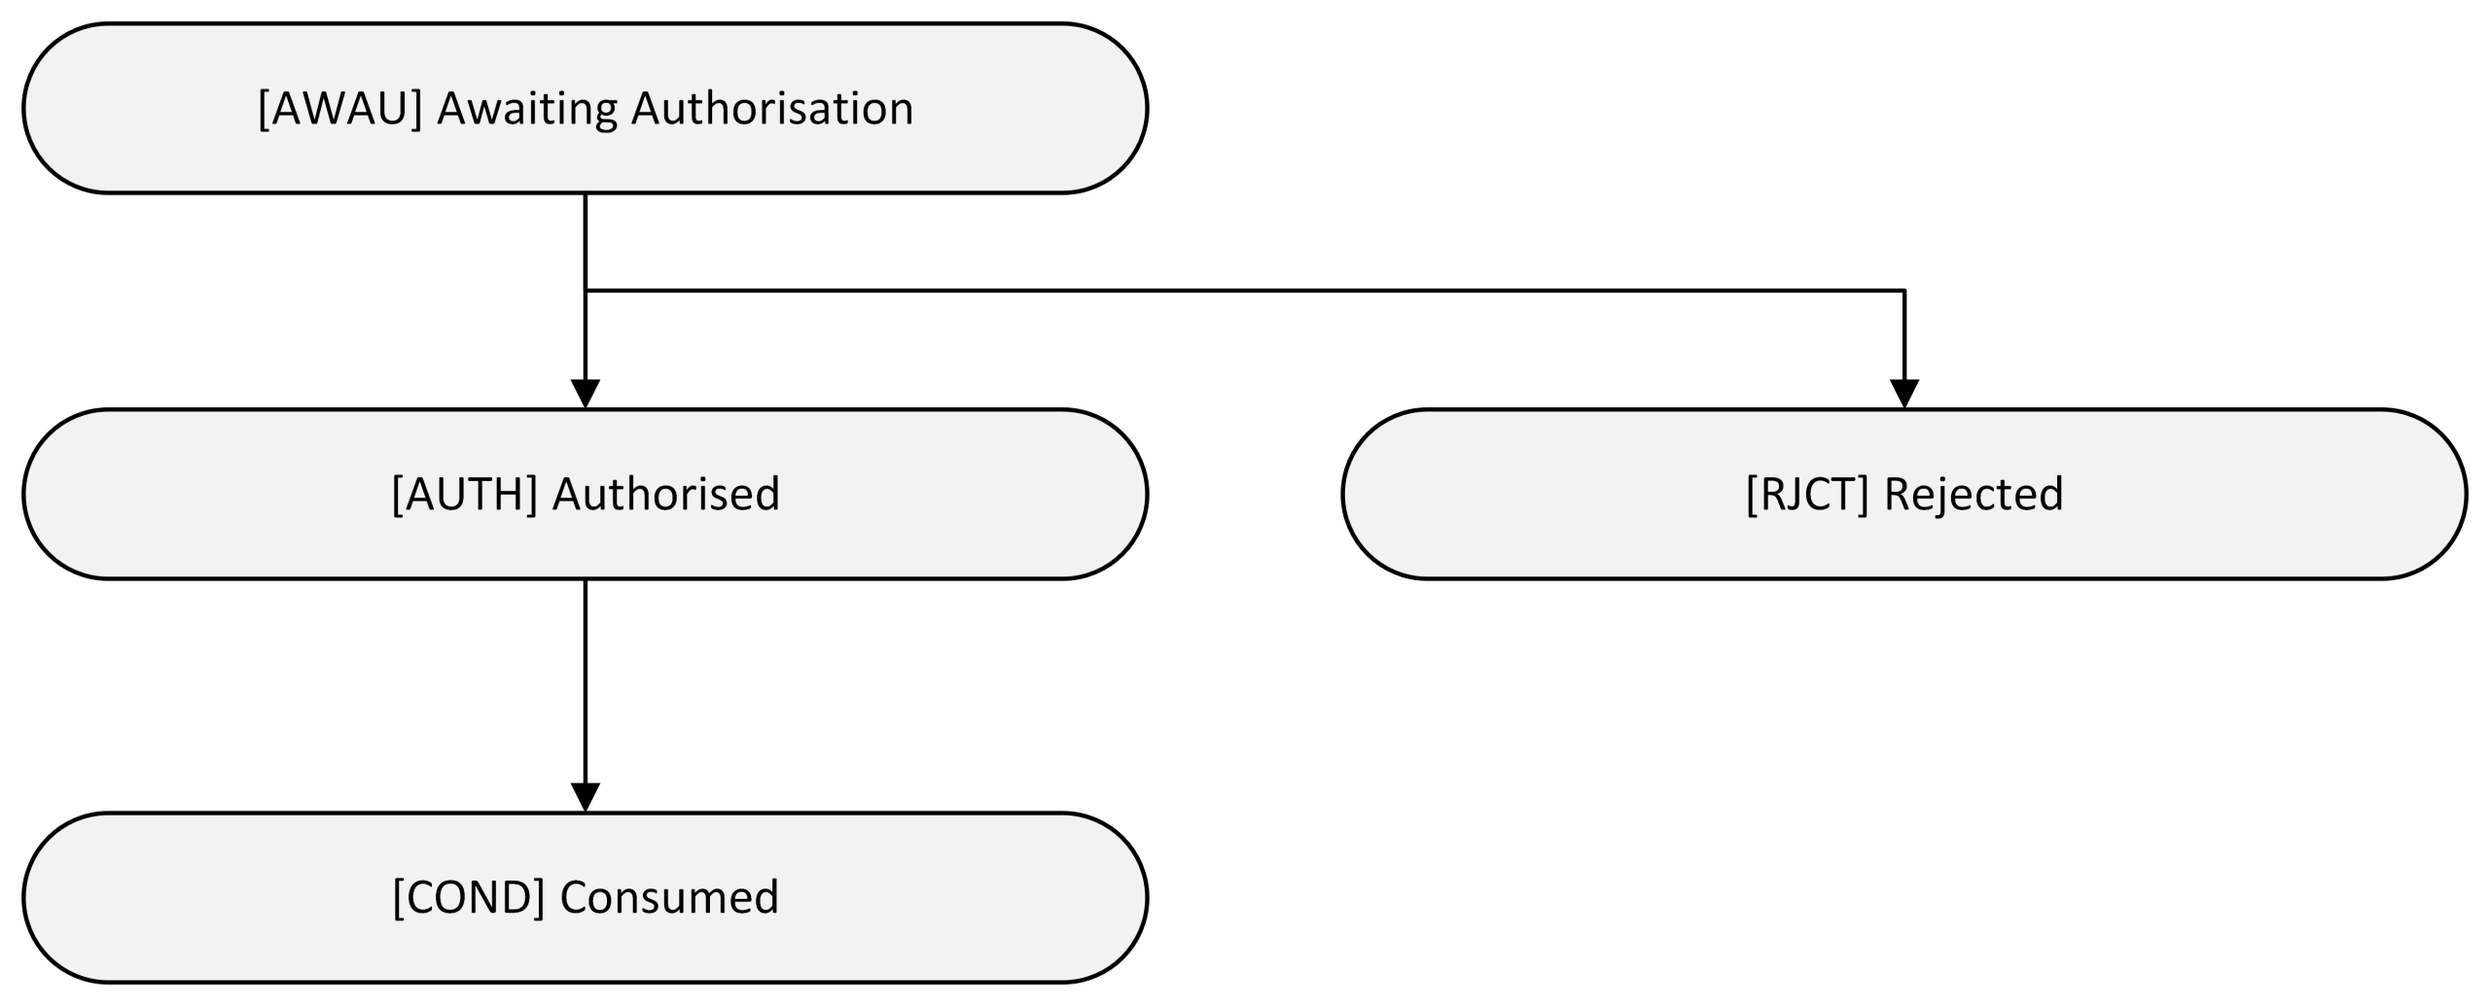
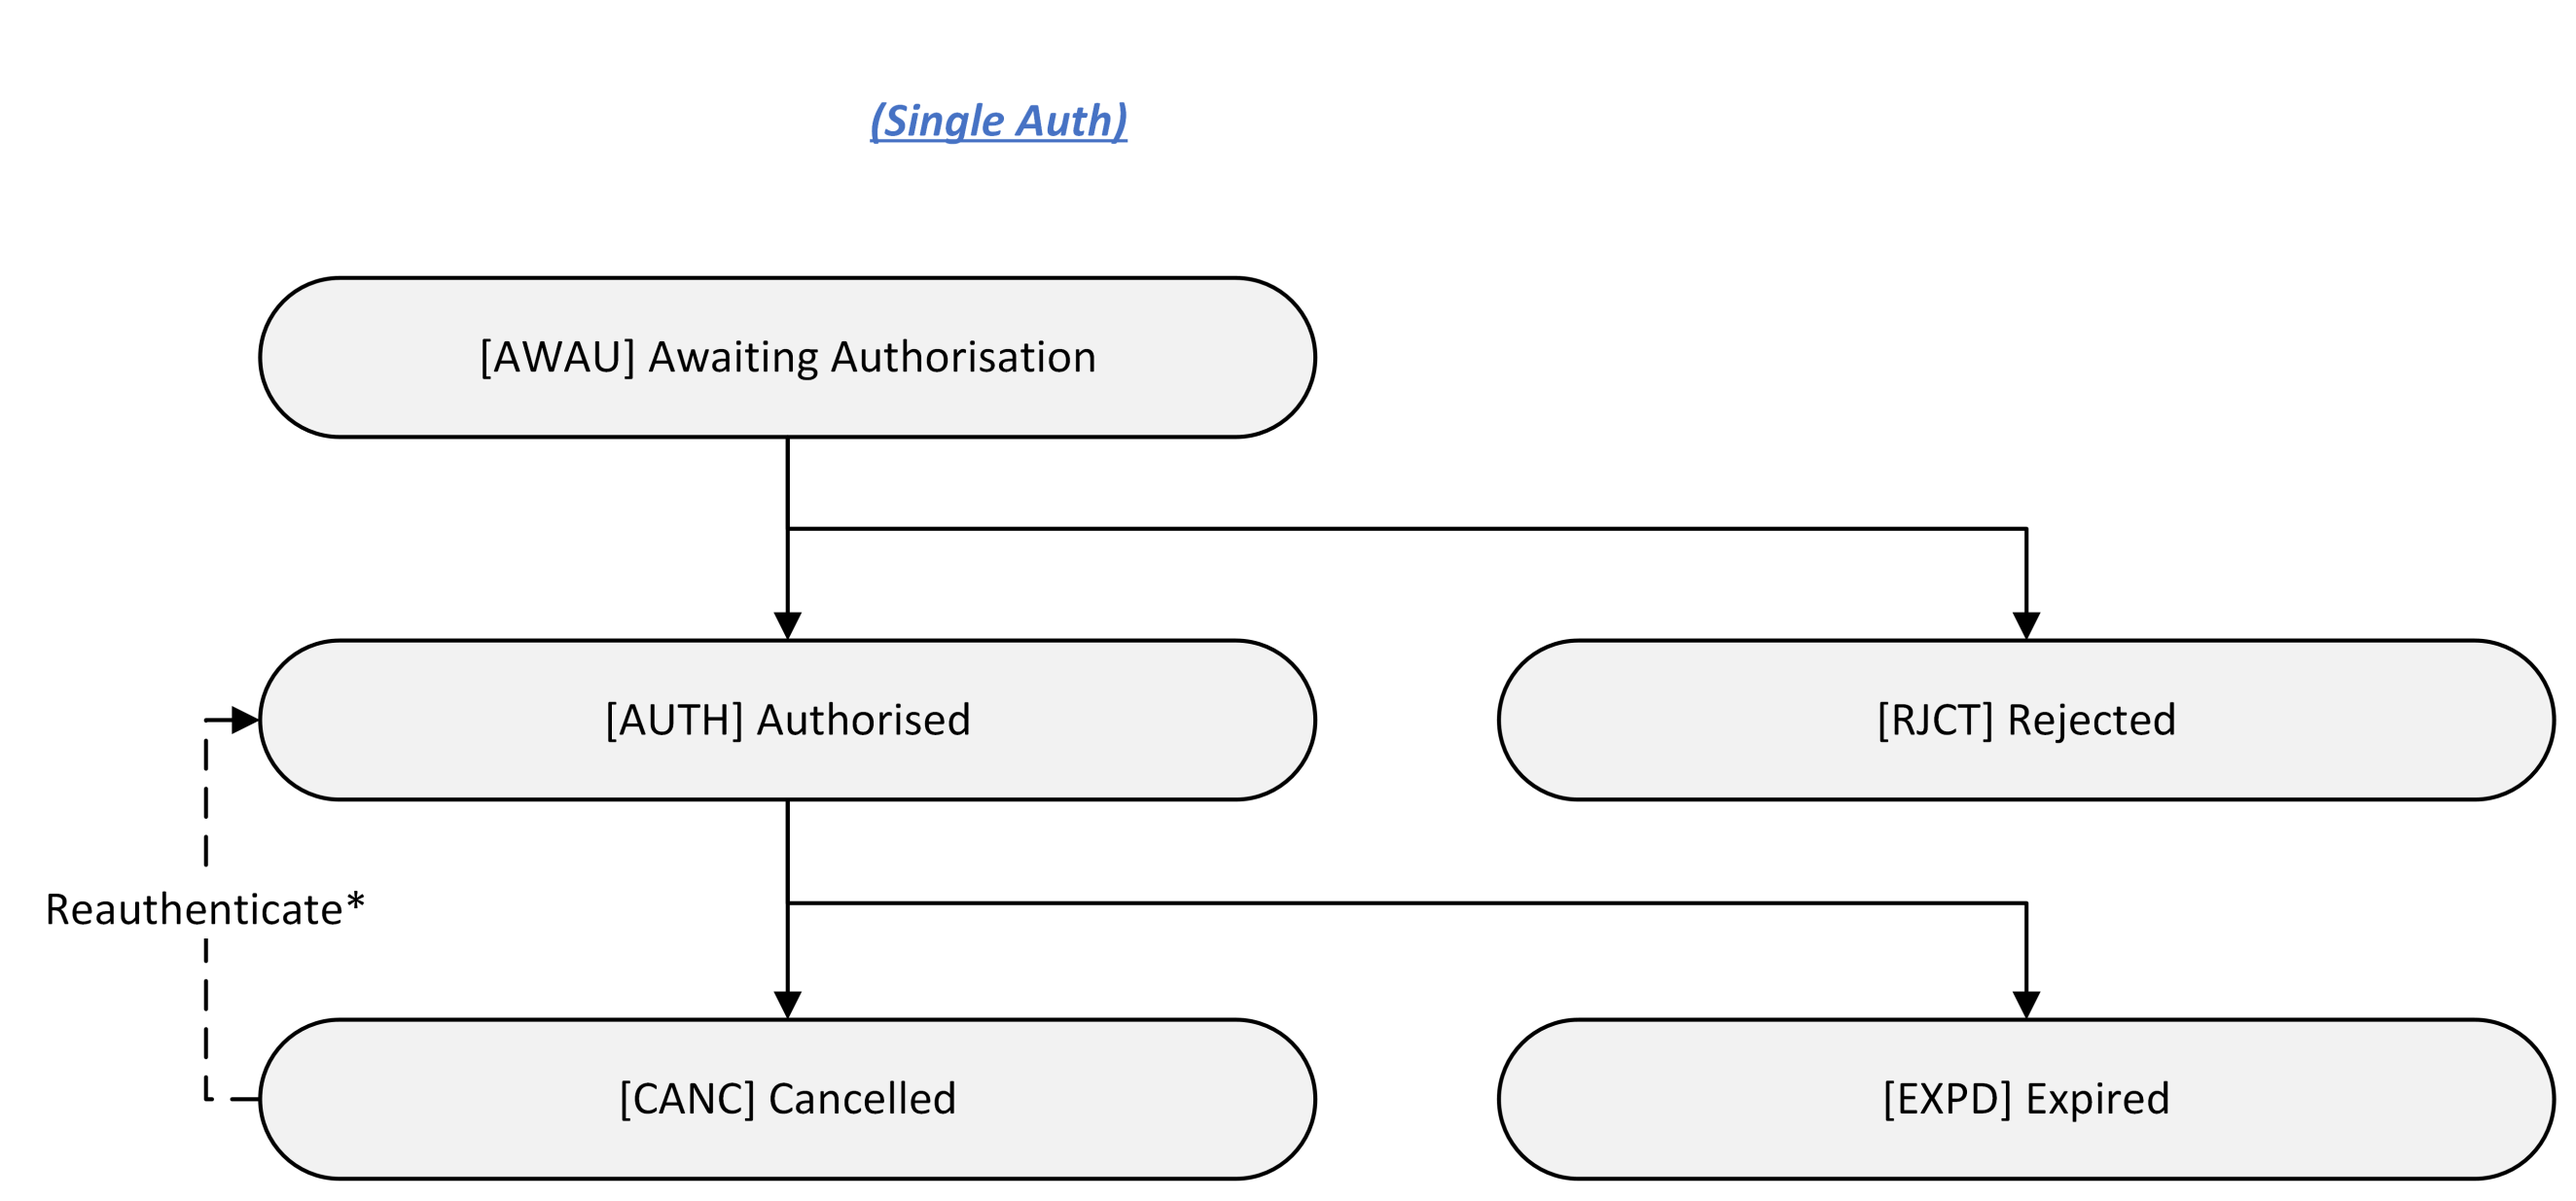
Updated data dictionaries and StatusCode values

diff --git a/docs/v4.0-draft1/resources-and-data-models/cbpii/funds-confirmation-consent.md b/docs/v4.0-draft1/resources-and-data-models/cbpii/funds-confirmation-consent.md
@@ -71,7 +71,8 @@ After consent has been agreed the **funds-confirmation-consent** resource may ha
 | --- |--- |--- |
 | 1 |RJCT |The Funds Confirmation Consent has been rejected. |
 | 2 |AUTH |The Funds Confirmation Consent has been successfully agreed. |
-| 3| COND | The Funds Confirmation Consent has been Consumed |
+| 3| CANC | The Funds Confirmation Consent has been cancelled |
+| 4| EXPD | The Funds Confirmation Consent has expired |
 
 Changes to the StatusCode, such as being rejected, should be captured in `StatusReason`, an array of `StatusReasonCode`, `StatusReasonDescription` and `Path`.  
 
@@ -105,9 +106,11 @@ The available StatusCode code-list enumerations for the **funds-confirmation-con
 
 |  |StatusCode |Status Description |
 | --- |--- |--- |
-| 1 |RJCT |The Funds Confirmation Consent has been rejected. |
-| 2 |AWAU |The Funds Confirmation Consent is awaiting agreement. |
+| 1 |AWAU |The Funds Confirmation Consent is awaiting agreement. |
+| 2 |RJCT |The Funds Confirmation Consent has been rejected. |
 | 3 |AUTH |The Funds Confirmation Consent has been successfully agreed. |
+| 4 | CANC | The Funds Confirmation Consent has been cancelled |
+| 5 | EXPD | The Funds Confirmation Consent has expired |
 
 
 ### DELETE /funds-confirmation-consents/{ConsentId}
@@ -143,11 +146,10 @@ The OBFundsConfirmationConsent1 object will be used for the following:
 | Identification |1..1 |OBFundsConfirmationConsent1/Data/DebtorAccount/Identification |Identification assigned by an institution to identify an account. This identification is known by the account owner. |Max256Text | | |
 | Name |0..1 |OBFundsConfirmationConsent1/Data/DebtorAccount/Name |The account name is the name or names of the account owner(s) represented at an account level, as displayed by the ASPSP's online channels. Note, the account name is not the product name or the nickname of the account. |Max350Text | | |
 | SecondaryIdentification |0..1 |OBFundsConfirmationConsent1/Data/DebtorAccount/SecondaryIdentification |This is secondary identification of the account, as assigned by the account servicing institution. This can be used by building societies to additionally identify accounts with a roll number (in addition to a sort code and account number combination). |Max34Text | | |
-| Proxy |0..1 |OBFundsConfirmationConsent1/Data/DebtorAccount/Proxy |The external proxy account type |OBProxyAccount | | |
-| Identification |1..1 |OBFundsConfirmationConsent1/Data/DebtorAccount/Proxy/Identification| Identification assigned by an institution to identify an account. This identification is known by the account owner. |Max256Text | | |
-| Type |0..1 |OBFundsConfirmationConsent1/Data/DebtorAccount/Proxy/Type| Specifies the external proxy account type |MaxText70 | | |
-| Code |1..1 |OBFundsConfirmationConsent1/Data/DebtorAccount/Proxy/Code| Specifies the external proxy account type code, as published in the proxy account type external code set.<br> For more information see `ExternalProxyAccountType1Code` [here](https://github.com/OpenBankingUK/External_Interal_CodeSets) |OBExternalProxyAccountType1Code | | |
-| Proprietary |1..1 |OBFundsConfirmationConsent1/Data/DebtorAccount/Proxy/Proprietary| The owner of the proxy account |MaxText70 | | |
+| Proxy |0..1 |OBFundsConfirmationConsent1/Data/DebtorAccount/Proxy |Specifies an alternate assumed name for the identification of the account. |OBProxyAccount | | |
+| Identification |1..1 |OBFundsConfirmationConsent1/Data/DebtorAccount/Proxy/Identification| Identification used to indicate the account identification under another specified name. |Max256Text | | |
+| Type |0..1 |OBFundsConfirmationConsent1/Data/DebtorAccount/Proxy/Type| Type of the proxy identification. |MaxText70 | | |
+| Code |1..1 |OBFundsConfirmationConsent1/Data/DebtorAccount/Proxy/Code| Specifies the external proxy account type code, as published in the proxy account type external code set. |ExternalProxyAccountType1Code | See `ExternalProxyAccountType1Code` [here](https://github.com/OpenBankingUK/External_Interal_CodeSets)| |
 
 ### Funds Confirmation Consent - Response
 
@@ -178,33 +180,26 @@ The OBFundsConfirmationConsentResponse1 object contains the same information as 
 | Data |1..1 |OBFundsConfirmationConsentResponse1/Data | |OBFundsConfirmationConsentDataResponse1 | | |
 | ConsentId |1..1 |OBFundsConfirmationConsentResponse1/Data/ConsentId |Unique identification as assigned to identify the funds confirmation consent resource. |Max128Text | | |
 | CreationDateTime |1..1 |OBFundsConfirmationConsentResponse1/Data/CreationDateTime |Date and time at which the resource was created. |ISODateTime | | |
-| StatusCode |0..1 |OBFundsConfirmationConsentResponse1/Data/StatusCode |Specifies the status of consent resource in code form. |ExternalStatusReason1Code |AUTH AWAU RJCT COND |
-| StatusReason |0..* |OBFundsConfirmationConsentResponse1/Data/StatusReason |Specifies the status reason. | OBStatusReason |
-| StatusReasonCode |0..1 |OBFundsConfirmationConsentResponse1/Data/StatusReason/*/StatusReasonCode |Specifies the status reason in a code form. For a full description see `ExternalStatusReason1Code` [here](https://github.com/OpenBankingUK/External_Interal_CodeSets). | ExternalStatusReason1Code |
-| StatusReasonDescription |0..1 |OBFundsConfirmationConsentResponse1/Data/StatusReason/*/StatusReasonDescription |Description supporting the StatusReasonCode. |
-| Path |0..1 |OBFundsConfirmationConsentResponse1/Data/StatusReason/*/Path |Recommended but optional reference to JSON path if relevant to the code. |
-| StatusUpdateDateTime |1..1 |OBFundsConfirmationConsentResponse1/Data/StatusUpdateDateTime |Date and time at which the resource status was updated. |ISODateTime | | |
 | ExpirationDateTime |0..1 |OBFundsConfirmationConsentResponse1/Data/ExpirationDateTime |Specified date and time the funds confirmation authorisation will expire. If this is not populated, the authorisation will be open ended. |ISODateTime | | |
+| StatusCode |0..1 |OBFundsConfirmationConsentResponse1/Data/StatusCode |Specifies the status of consent resource in code form. |OBExternalConsentProprietaryCode |AWAU AUTH RJCT CANC EXPD |||
+| StatusReason |0..* |OBFundsConfirmationConsentResponse1/Data/StatusReason |Array of StatusReasonCodes. | OBStatusReason |||
+| StatusReasonCode |0..1 |OBFundsConfirmationConsentResponse1/Data/StatusReason/StatusReasonCode |Specifies the status reason in a code form. | ExternalStatusReason1Code | See `ExternalStatusReason1Code` [here](https://github.com/OpenBankingUK/External_Interal_CodeSets).||
+| StatusReasonDescription |0..1 |OBFundsConfirmationConsentResponse1/Data/StatusReason/StatusReasonDescription |Description supporting the StatusReasonCode. |
+| Path |0..1 |OBFundsConfirmationConsentResponse1/Data/StatusReason/*/Path |Path is optional but relevant when the status reason refers to an object/field and hence conditional to provide JSON path. |||
+| StatusUpdateDateTime |1..1 |OBFundsConfirmationConsentResponse1/Data/StatusUpdateDateTime |Date and time at which the resource status was updated. |ISODateTime | | |
 | DebtorAccount |1..1 |OBFundsConfirmationConsentResponse1/Data/DebtorAccount |Unambiguous identification of the account of the debtor to which a confirmation of funds consent will be applied. |OBCashAccountDebtor4 | | |
 | SchemeName |1..1 |OBFundsConfirmationConsentResponse1/Data/DebtorAccount/SchemeName |Name of the identification scheme, in a coded form as published in an external list. |OBExternalAccountIdentification4Code | | |
 | Identification |1..1 |OBFundsConfirmationConsentResponse1/Data/DebtorAccount/Identification |Identification assigned by an institution to identify an account. This identification is known by the account owner. |Max256Text | | |
 | Name |0..1 |OBFundsConfirmationConsentResponse1/Data/DebtorAccount/Name |The account name is the name or names of the account owner(s) represented at an account level, as displayed by the ASPSP's online channels. Note, the account name is not the product name or the nickname of the account. |Max350Text | | |
 | SecondaryIdentification |0..1 |OBFundsConfirmationConsentResponse1/Data/DebtorAccount/SecondaryIdentification |This is secondary identification of the account, as assigned by the account servicing institution. This can be used by building societies to additionally identify accounts with a roll number (in addition to a sort code and account number combination). |Max34Text | | |
-| Proxy |0..1 |OBFundsConfirmationConsentResponse1/Data/DebtorAccount |The external proxy account type |OBProxyAccount | | |
-| Identification |1..1 |OBFundsConfirmationConsentResponse1/Data/DebtorAccount/Identification| Identification assigned by an institution to identify an account. This identification is known by the account owner. |Max256Text | | |
-| Type |0..1 |OBFundsConfirmationConsentResponse1/Data/DebtorAccount/Type| Specifies the external proxy account type |MaxText70 | | |
-| Code |1..1 |OBFundsConfirmationConsentResponse1/Data/DebtorAccount/Code| Specifies the external proxy account type code, as published in the proxy account type external code set.<br> For more information see `ExternalProxyAccountType1Code` [here](https://github.com/OpenBankingUK/External_Interal_CodeSets) |OBExternalProxyAccountType1Code | | |
-| Proprietary |1..1 |OBFundsConfirmationConsentResponse1/Data/DebtorAccount/Proprietary| The owner of the proxy account |MaxText70 | | |
+| Proxy |0..1 |OBFundsConfirmationConsentResponse1/Data/DebtorAccount/Proxy |Specifies an alternate assumed name for the identification of the account |OBProxyAccount | | |
+| Identification |1..1 |OBFundsConfirmationConsentResponse1/Data/DebtorAccount/Proxy/Identification| Identification used to indicate the account identification under another specified name. |Max256Text | | |
+| Type |0..1 |OBFundsConfirmationConsentResponse1/Data/DebtorAccount/Proxy/Type| Type of the proxy identification. |MaxText70 | | |
+| Code |1..1 |OBFundsConfirmationConsentResponse1/Data/DebtorAccount/Proxy/Code| Specifies the external proxy account type code, as published in the proxy account type external code set.<br> For more information see `ExternalProxyAccountType1Code` [here](https://github.com/OpenBankingUK/External_Interal_CodeSets) |OBExternalProxyAccountType1Code | | |
 
 ### Data Payload - Enumerations
 
-This section gives the definitions for enumerations used in the Confirmation of Funds APIs.
-
-| Code Class |Name |Definition |
-| --- |--- |--- |
-| OBExternalRequestStatus1Code |AUTH |The funds confirmation consent has been successfully agreed. |
-| OBExternalRequestStatus1Code |AWAU |The funds confirmation consent is awaiting agreement. |
-| OBExternalRequestStatus1Code |RJCT |The funds confirmation consent has been rejected. |
+A full list of enumerations for both OBL and ISO 20022 used in the payloads can be found [here](https://github.com/OpenBankingUK/External_Interal_CodeSets)
 
 
 ## Usage Examples

diff --git a/docs/v4.0-draft1/profiles/confirmation-of-funds-api-profile.md b/docs/v4.0-draft1/profiles/confirmation-of-funds-api-profile.md
@@ -346,6 +346,8 @@ The funds-confirmation-consent resource may have one of the following status cod
 | --- |--- |--- |
 | 1 |AUTH |The Funds Confirmation Consent has been successfully authorised. |
 | 2 |RJCT |The Funds Confirmation Consent has been rejected. |
+| 3 | CANC | The Funds Confirmation Consent has been cancelled|
+| 3 | EXPD | The Funds Confirmation Consent has  expired|
 
 #### Consent Re-authentication
 
